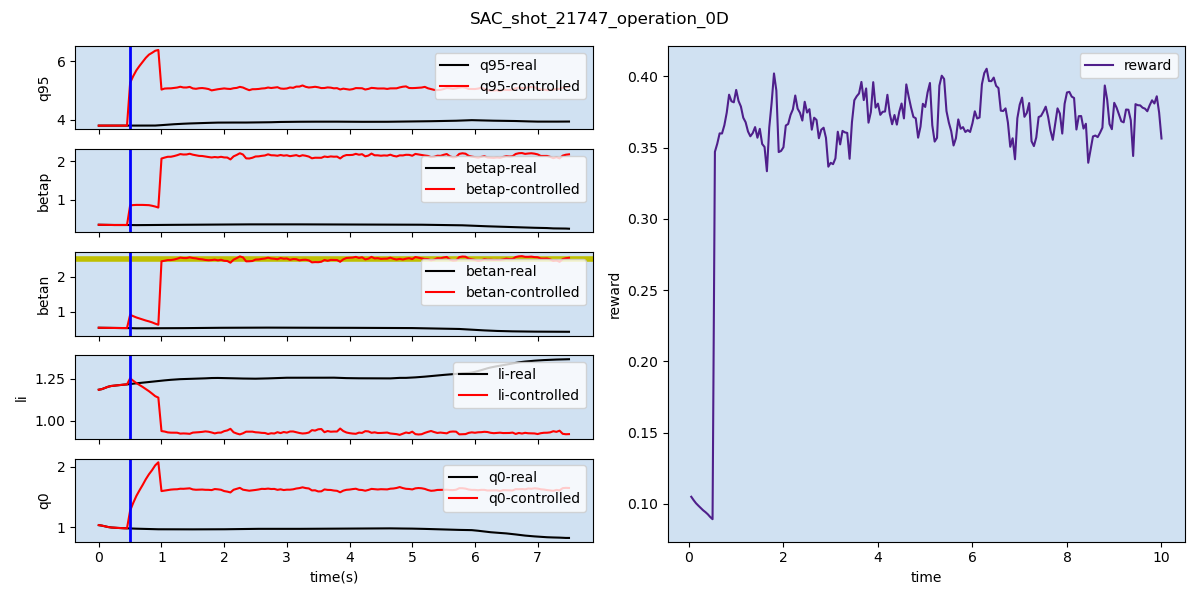
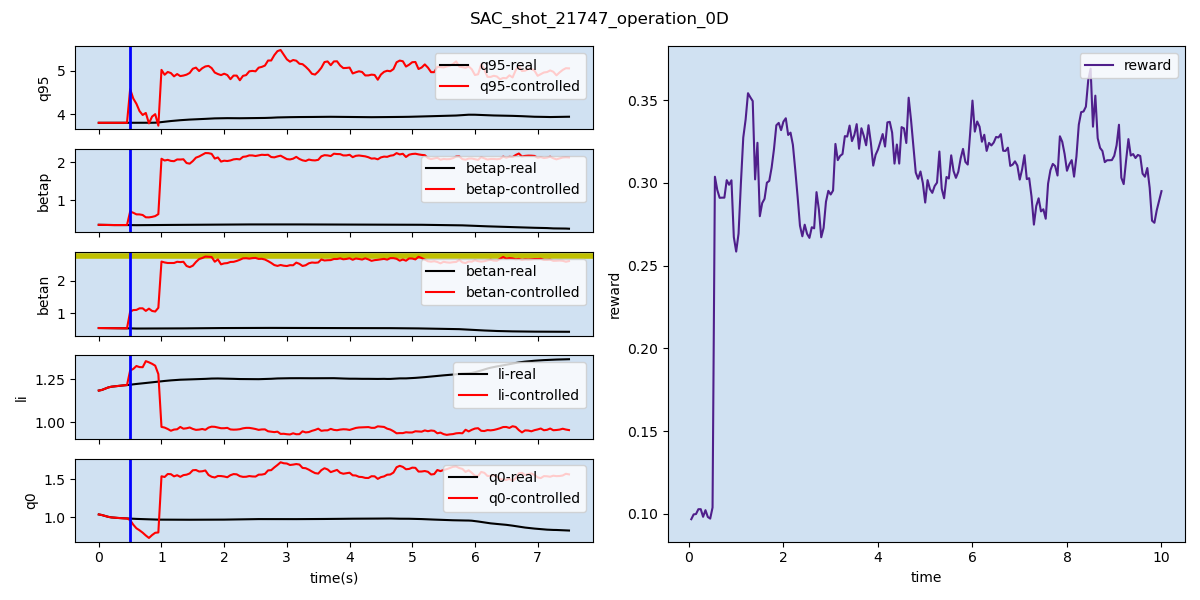
update SAC performance image

diff --git a/README.md b/README.md
@@ -13,8 +13,8 @@
 
 <div>
     <p float = 'left'>
-        <img src="/image/shot_21474_operation_0D.png"  width="320" height="320">
-        <img src="/image/shot_21474_operation_control.png"  width="320" height="320">
+        <img src="/image/shot_21474_operation_0D.png"  width="360" height="320">
+        <img src="/image/shot_21474_operation_control.png"  width="360" height="320">
     </p>
 </div>
 
@@ -22,7 +22,7 @@
 - Below is the overall scheme for our research
 <div>
     <p float = 'left'>
-        <img src="/image/scheme.png"  width="480" height="360">
+        <img src="/image/scheme.png"  width="640" height="400">
     </p>
 </div>
 
@@ -61,10 +61,22 @@
                           --pred_len {output sequence length}
     ```
 ## Result
+- The best performance of the virtual tokamak operation is obtained from SAC algorithm.
+- The below picture describes the result of the training procedure with respect to the reward for each episode.
 <div>
     <p float = 'left'>
-        <img src="/image/SAC_shot_21747_operation_0D.png"  width="320" height="320">
-        <img src="/image/SAC_episode_reward.png"  width="320" height="320">
+        <img src="/image/SAC_episode_reward.png"  width="640" height="400">
+    </p>
+</div>
+
+- And we play SAC algorithm with initial condition for KSTAR shot # 21747.
+- We can observe the improved operation under the virtual KSTAR environment via RL control.
+<div>
+    <p float = 'left'>
+        <img src="/image/SAC_shot_21747_operation_0D.png"  width="640" height="400">
+    </p>
+    <p float = 'left'>
+        <img src="/image/SAC_shot_21747_operation_control.png"  width="640" height="400">
     </p>
 </div>
 
